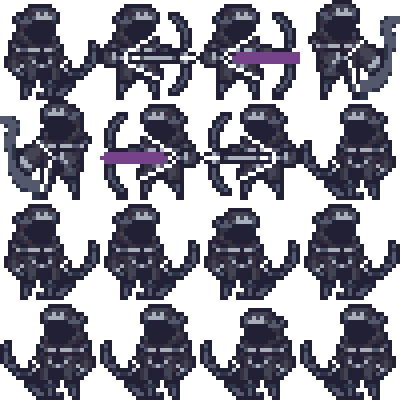
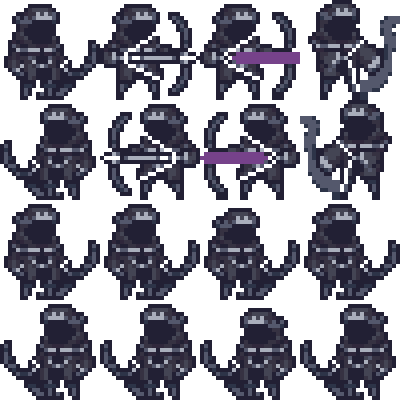
원거리 몬스터 사격간격 조정
애니메이션에 맞춰서 사격하게 변경

Changed region(s): [[0.0, 0.24, 0.45, 0.51], [0.72, 0.24, 0.99, 0.51], [0.48, 0.27, 0.69, 0.51]]

diff --git a/GameProject/monster.py b/GameProject/monster.py
@@ -95,10 +95,10 @@ class Archer(Monster):
     dir = 0
     def Hunting(self):
         if abs(self.posX - player.posX) < 500 or self.maxhp != self.hp :
-            if self.posX - player.posX > 5 and self.shootDelay == 0:
+            if self.posX - player.posX > 5 and 3.1>self.frame > 3.0:
                 self.action = 2
                 self.Shooting()
-            elif self.posX - player.posX <= -5 and self.shootDelay == 0:
+            elif self.posX - player.posX <= -5 and 3.1>self.frame > 3.0:
                 self.action = 3
                 self.Shooting()
             self.shootDelay = (self.shootDelay + 1) % 100
@@ -118,6 +118,11 @@ class Archer(Monster):
         arrow.imageLoad('./res/bullet.png')
         a_list.append(arrow)
 
+    def Show(self,x):
+        self.image.clip_draw(self.i_w*int(self.frame),self.i_h*self.action,self.w,self.h,self.posX - x,self.posY)
+        self.frame = (self.frame+0.1) % 4
+
+
 class Arrow(Sprite):
     def __init__(self,px,py,dmg,rad,dir):
         self.speed = 7
@@ -132,7 +137,7 @@ class Arrow(Sprite):
 
 
     def Show(self):
-        self.image.clip_draw(0,0,self.w,self.h,self.posX - player.cameraX,self.posY)
+        self.image.clip_draw(self.i_w*int(self.frame),self.i_h*self.action,self.w,self.h,self.posX - player.cameraX,self.posY)
 
     def move(self):
         if self.dir == 1:
@@ -169,7 +174,10 @@ def LoadArrow():
             continue
         if abs(a.posX - player.posX) < player.w/2:
             if abs(a.posY - player.posY) < player.h/2:
-                player.ColtoMonster(a_list)
+                if player.inv == 0:
+                    player.hp -= a.power
+                    player.inv = 2
+                    print('hit')
                 a_list.remove(a)
                 continue
 
